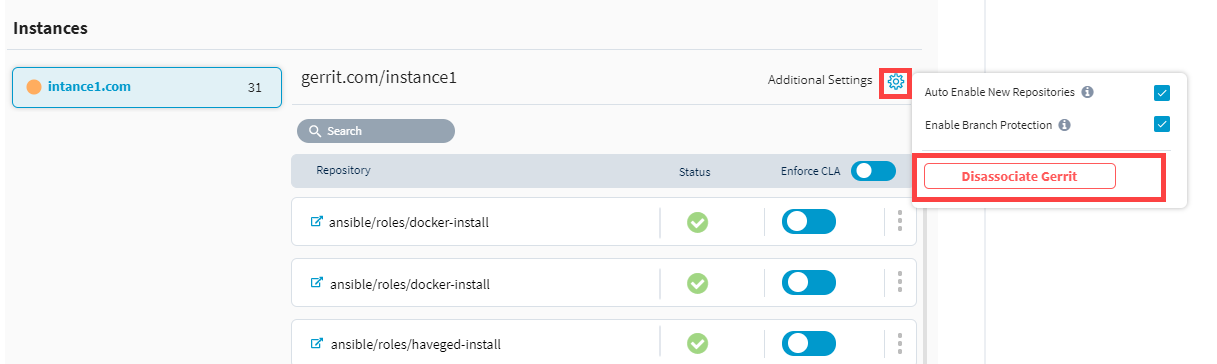
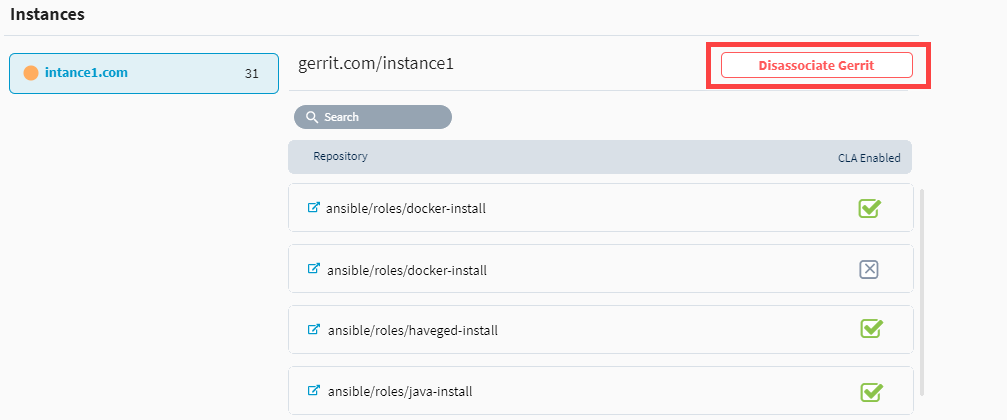
GitBook: [v2] 5 pages and 7 assets modified

diff --git a/communitybridge/easycla/project-managers/add-and-manage-git-organizations-and-repositories/add-or-remove-git-repositories-for-cla-monitoring.md b/communitybridge/easycla/project-managers/add-and-manage-git-organizations-and-repositories/add-or-remove-git-repositories-for-cla-monitoring.md
@@ -1,6 +1,6 @@
-# Add or Remove Git Repositories for CLA Monitoring
+# Add or Remove GitHub Repositories for CLA Monitoring
 
-Before you enable Git repositories for CLA monitoring or remove them from CLA monitoring, you must add the Git organizations— [add GitHub organization](./#add-github-organization) or [add Gerrit organization](./#add-gerrit-organization). You can perform the following activities with EasyCLA:
+Before you enable GitHub repositories for CLA monitoring or remove them from CLA monitoring, you must add the Git organizations— [add GitHub organization](./#add-github-organization) or [add Gerrit organization](./#add-gerrit-organization). You can perform the following activities with EasyCLA:
 
 1. [Sign in](../sign-in-to-project-console.md).
 
@@ -16,11 +16,11 @@ Source Control configuration page appears.
 
 ![Add and Manage Repositories](../../../../.gitbook/assets/add-manage-repositories.png)
 
-4. Under GitHub or Gerrit, select the connected/added organization for which you want to manage repositories.
+4. Under GitHub, select the connected/added organization for which you want to manage repositories.
 
 5. Turn on or Turn off the toggle key next to a repository to enforce or remove from CLA monitoring.
 
-6. Turn on or Turn off the **Enforce CLA** toggle key to enforce or remove all the repositories from CLA monitoring at a time. 
+6. Turn on or Turn off the **Enforce CLA** toggle key to enforce or remove all the repositories from CLA monitoring at a time.
 
-![](../../../../.gitbook/assets/add-or-remove-repositories.png)
+![Add or Remove Repositories from CLA Monitoring](../../../../.gitbook/assets/add-or-remove-repositories.png)
 

diff --git a/SUMMARY.md b/SUMMARY.md
@@ -202,7 +202,7 @@
       * [View and Manage Signed CLAs for a CLA Group](communitybridge/easycla/project-managers/view-and-manage-signed-clas-for-a-cla-group.md)
       * [Add and Manage Git Organizations and Repositories](communitybridge/easycla/project-managers/add-and-manage-git-organizations-and-repositories/README.md)
         * [View Connection Status of Git Organizations and Repositories](communitybridge/easycla/project-managers/add-and-manage-git-organizations-and-repositories/view-connection-status-of-git-organizations-and-repositories.md)
-        * [Add or Remove Git Repositories for CLA Monitoring](communitybridge/easycla/project-managers/add-and-manage-git-organizations-and-repositories/add-or-remove-git-repositories-for-cla-monitoring.md)
+        * [Add or Remove GitHub Repositories for CLA Monitoring](communitybridge/easycla/project-managers/add-and-manage-git-organizations-and-repositories/add-or-remove-git-repositories-for-cla-monitoring.md)
         * [Uninstall the EasyCLA Application](communitybridge/easycla/project-managers/add-and-manage-git-organizations-and-repositories/uninstall-the-easycla-application.md)
     * [Contributors](communitybridge/easycla/contributors/README.md)
       * [Sign a CLA as an Individual Contributor to GitHub](communitybridge/easycla/contributors/sign-a-cla-as-an-individual-contributor-to-github.md)

diff --git a/communitybridge/easycla/project-managers/add-and-manage-git-organizations-and-repositories/view-connection-status-of-git-organizations-and-repositories.md b/communitybridge/easycla/project-managers/add-and-manage-git-organizations-and-repositories/view-connection-status-of-git-organizations-and-repositories.md
@@ -1,2 +1,13 @@
 # View Connection Status of Git Organizations and Repositories
 
+After you [add a GitHub](./#add-github-organization) or [Gerrit organization](./#add-gerrit-organization), the organizations are displayed with different colors referring to their connection statuses. Following is an example:
+
+![](../../../../.gitbook/assets/connection-status.png)
+
+* ![](../../../../.gitbook/assets/connected-green-color.png) indicates full connection—all the repositories of the organization are connected.
+* ![](../../../../.gitbook/assets/orange-partial-connection.png) indicates partial connection—some repositories of the organization are connected.
+* ![](../../../../.gitbook/assets/grey-no-connection.png) indicates no connection—the organization is added, but is not configured for CLA monitoring. 
+* ![](../../../../.gitbook/assets/red-connection-failure.png) indicates connection failure—for a connected organization, either the CLA configuration is uninstalled or the organization is deleted from GitHub.
+
+A repository with a cross mark next to it indicates connection failure. It means the repository was CLA enabled, but it is deleted from the organization.
+

diff --git a/communitybridge/easycla/getting-started/README.md b/communitybridge/easycla/getting-started/README.md
@@ -36,10 +36,10 @@ How you interact with EasyCLA depends on your role. EasyCLA supports the followi
 
 You are a _project manager_  or _project admin_ if you are authorized by Linux Foundation to maintain project\(s\). You use the project console on admin dashboard where you have access to specific projects as per the permission provided by Linux Foundation. You can set up project details and perform other activities as described in **A LINK WILL BE GIVEN TO ADMIN DASHBOARD ONCE THAT IS READY.** You can perform the following activities ****within the EasyCLA service:
 
-1. [Install the EasyCLA Application](../project-managers/add-new-cla-group.md).
-2. [Add a CLA Group]().
-3. [Add Contributor License Agreements]().
-4. Add [GitHub repositories]() or [Gerrit instances]() to enforce CLA monitoring.
+1. [Add a New CLA Group](../project-managers/add-new-cla-group.md)
+2. [Add or Remove Project from CLA Group](../project-managers/add-or-remove-a-project-from-cla-group.md)
+3. Add 
+4. Add GitHub repositories or Gerrit instances to enforce CLA monitoring
 
 At any time, you can change the settings to manage your project CLA monitoring, and do other management tasks:
 

diff --git a/communitybridge/easycla/project-managers/add-and-manage-git-organizations-and-repositories/README.md b/communitybridge/easycla/project-managers/add-and-manage-git-organizations-and-repositories/README.md
@@ -85,15 +85,13 @@ Source Control configuration page appears.
 
 The CLA Project Console lists the instance under Gerrit Instances, as shown below.
 
-![Gerrit Instance](../../../../.gitbook/assets/gerrit-instances.png)
+![Gerrit Instances](../../../../.gitbook/assets/gerrit-instances.png)
 
 ### Disassociate Gerrit Organization:
 
-1. Click the settings icon ![](../../../../.gitbook/assets/settings%20%281%29.png) next to **Additional Settings** for a Gerrit Instance.
+1. Click **Disassociate Gerrit** next to a Gerrit Instance, and click **Yes, Disconnect** on the confirmation page.
 
-2. Click **Disassociate Gerrit**, and click **Yes, Disconnect** on the confirmation page.
-
-![](../../../../.gitbook/assets/disassociate-gerrit-organization.png)
+![Disassociate Gerrit](../../../../.gitbook/assets/disassociate-gerrit-organization.png)
 
 
 
